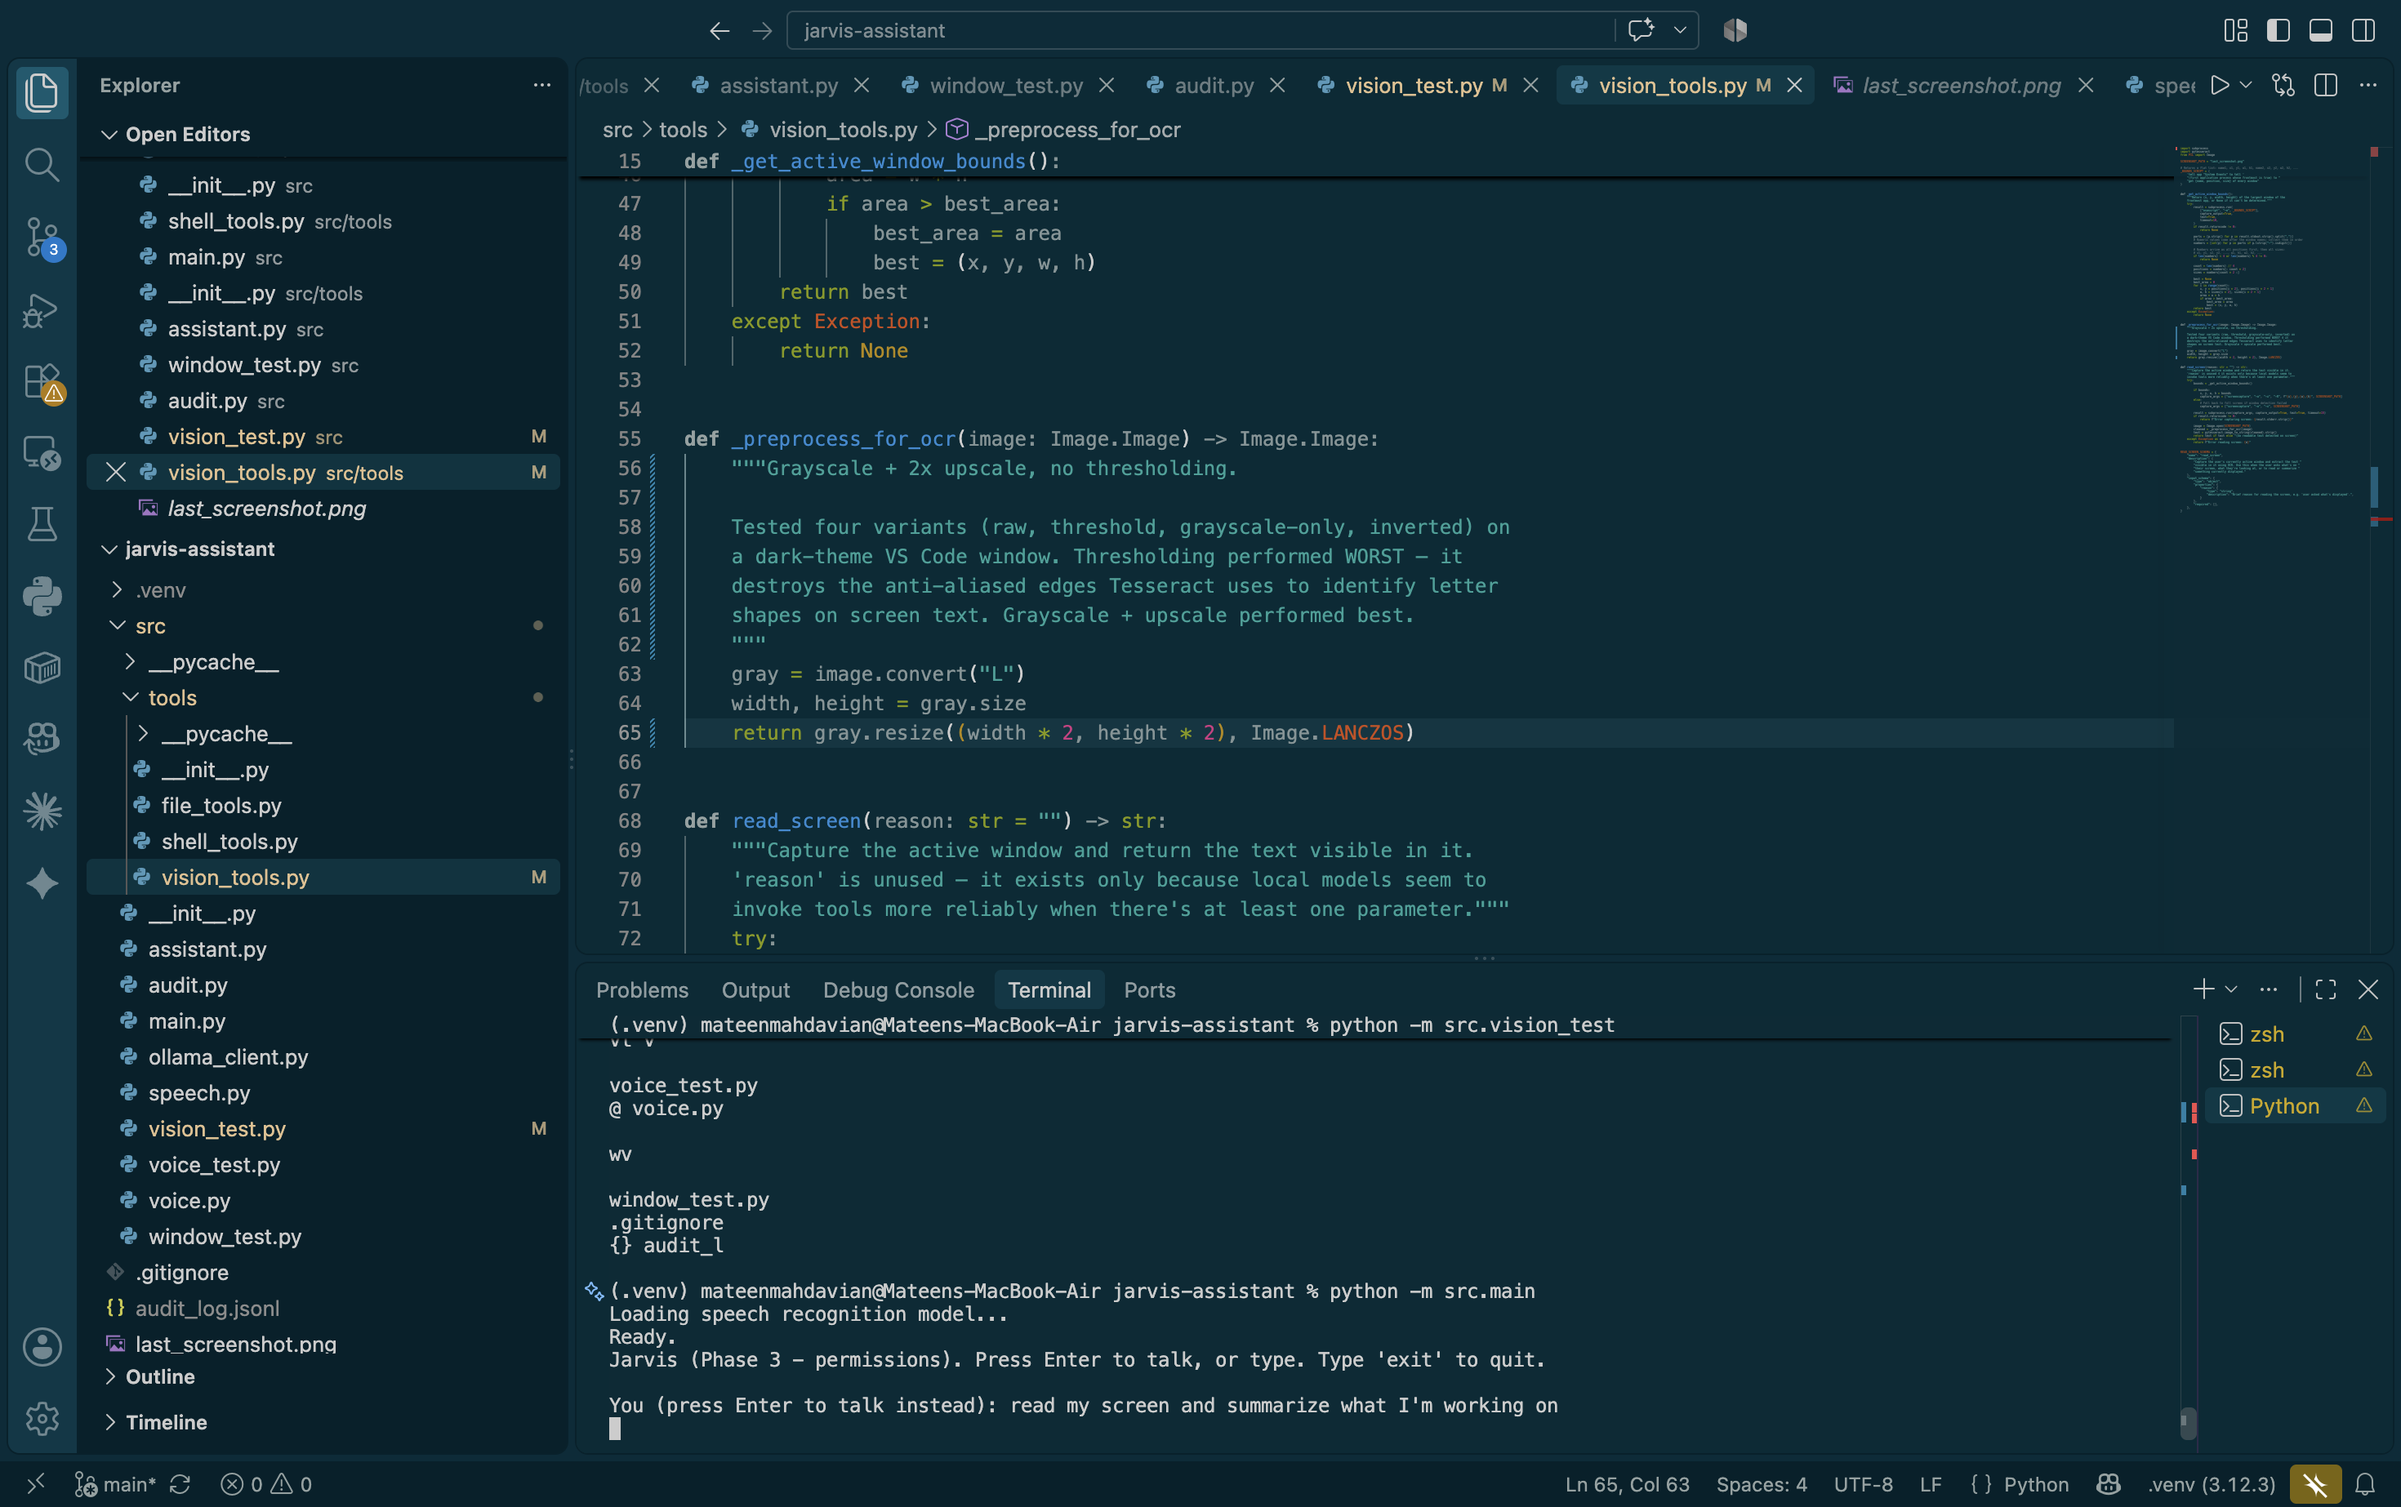
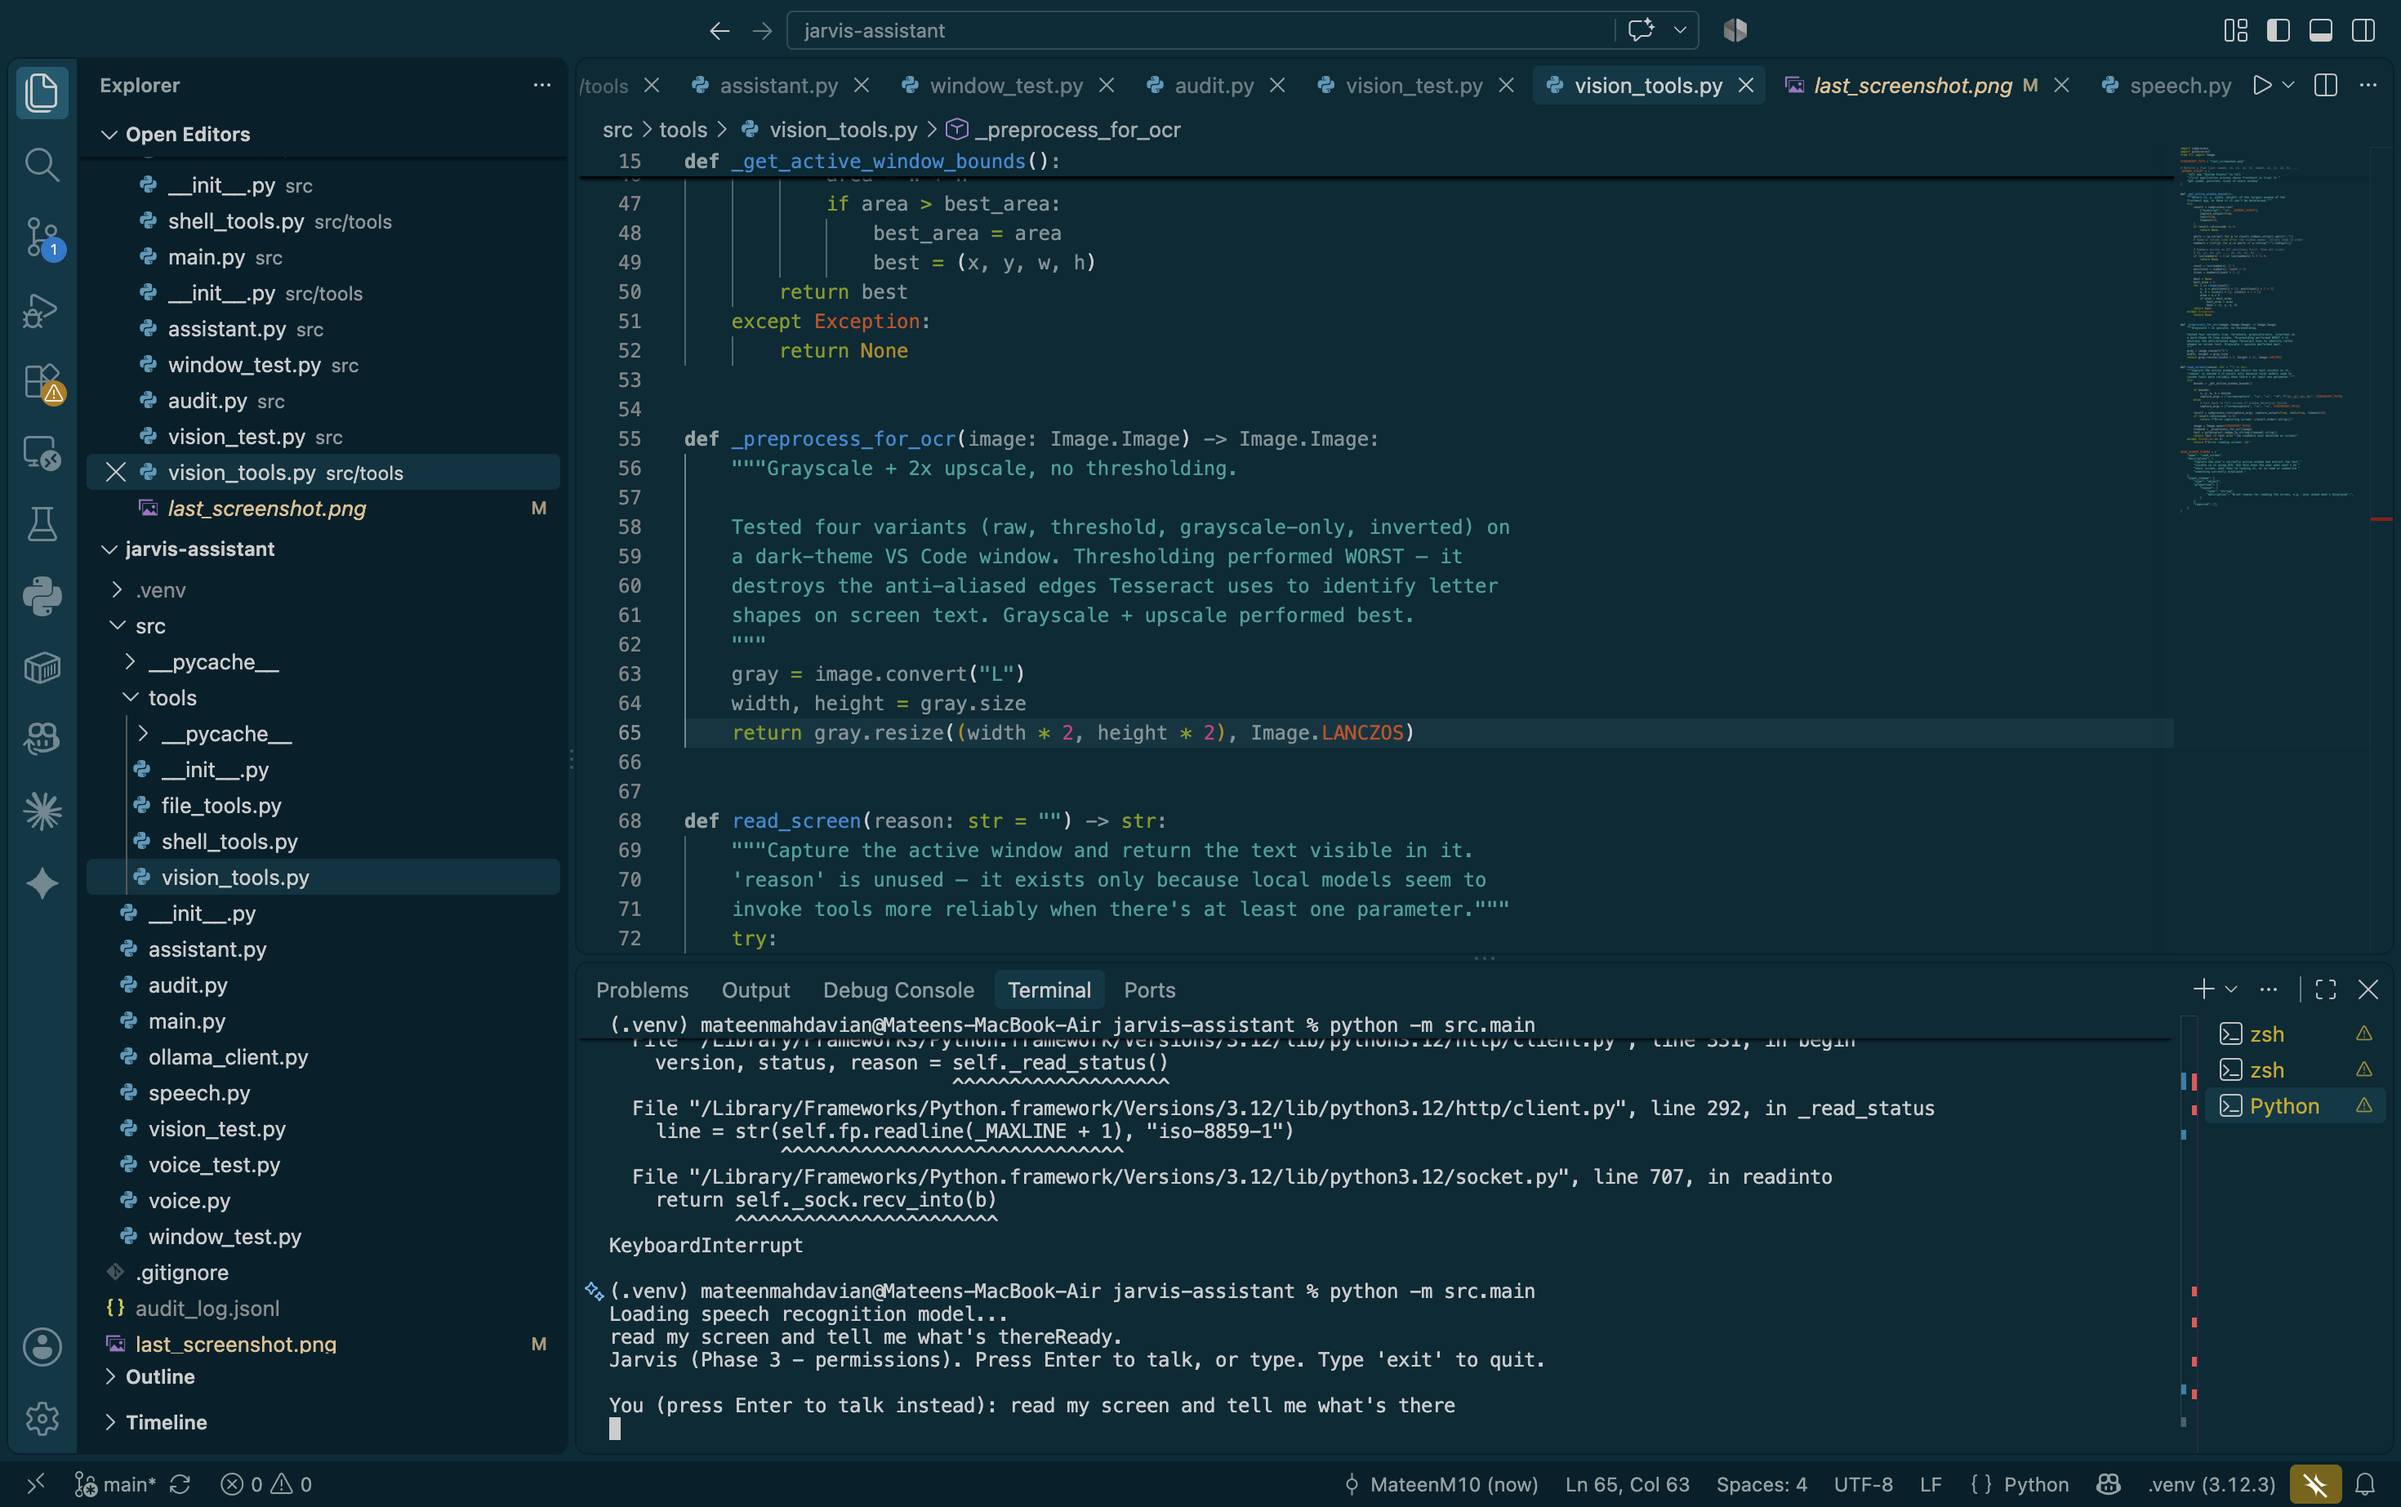
Created the hud main screen

diff --git a/hud/index.html b/hud/index.html
@@ -1,0 +1,134 @@
+<!DOCTYPE html>
+<html lang="en">
+<head>
+<meta charset="utf-8">
+<title>JARVIS</title>
+<style>
+  :root {
+    --glow: #35e0f0;
+    --glow-dim: #1a7f8a;
+    --bg: #0a1420;
+  }
+
+  * { margin: 0; padding: 0; box-sizing: border-box; }
+
+  body {
+    background: radial-gradient(circle at center, #12212f 0%, var(--bg) 70%);
+    height: 100vh;
+    display: flex;
+    flex-direction: column;
+    align-items: center;
+    justify-content: center;
+    font-family: "SF Mono", Menlo, monospace;
+    color: var(--glow);
+    overflow: hidden;
+  }
+
+  .reactor { position: relative; width: 420px; height: 420px; }
+
+  .reactor svg {
+    position: absolute;
+    inset: 0;
+    filter: drop-shadow(0 0 6px var(--glow-dim));
+  }
+
+  /* Each ring spins at its own speed/direction so the whole thing
+     never looks like one rigid object rotating. */
+  .spin-slow    { animation: spin 24s linear infinite; }
+  .spin-medium  { animation: spin 14s linear infinite reverse; }
+  .spin-fast    { animation: spin 8s  linear infinite; }
+  .spin-slowest { animation: spin 40s linear infinite reverse; }
+
+  @keyframes spin {
+    from { transform: rotate(0deg); }
+    to   { transform: rotate(360deg); }
+  }
+
+  .core {
+    position: absolute;
+    inset: 0;
+    display: flex;
+    align-items: center;
+    justify-content: center;
+    flex-direction: column;
+    gap: 10px;
+  }
+
+  .label {
+    font-size: 22px;
+    letter-spacing: 8px;
+    text-shadow: 0 0 12px var(--glow);
+  }
+
+  .status {
+    font-size: 11px;
+    letter-spacing: 3px;
+    color: var(--glow-dim);
+    text-transform: uppercase;
+  }
+
+  /* Gentle pulse on the innermost disc so it feels alive at rest */
+  .pulse { animation: pulse 3s ease-in-out infinite; transform-origin: center; }
+
+  @keyframes pulse {
+    0%, 100% { opacity: 0.45; }
+    50%      { opacity: 0.9; }
+  }
+</style>
+</head>
+<body>
+
+  <div class="reactor">
+
+    <!-- Outer dashed ring -->
+    <svg class="spin-slowest" viewBox="0 0 200 200">
+      <circle cx="100" cy="100" r="94" fill="none"
+              stroke="var(--glow-dim)" stroke-width="0.8"
+              stroke-dasharray="2 6"/>
+    </svg>
+
+    <!-- Segmented ring: long arcs with gaps -->
+    <svg class="spin-slow" viewBox="0 0 200 200">
+      <circle cx="100" cy="100" r="84" fill="none"
+              stroke="var(--glow)" stroke-width="1.5"
+              stroke-dasharray="60 30" opacity="0.7"/>
+    </svg>
+
+    <!-- Tick marks -->
+    <svg class="spin-medium" viewBox="0 0 200 200">
+      <circle cx="100" cy="100" r="72" fill="none"
+              stroke="var(--glow)" stroke-width="4"
+              stroke-dasharray="1 5" opacity="0.55"/>
+    </svg>
+
+    <!-- Thin bright ring -->
+    <svg class="spin-fast" viewBox="0 0 200 200">
+      <circle cx="100" cy="100" r="60" fill="none"
+              stroke="var(--glow)" stroke-width="1"
+              stroke-dasharray="120 40"/>
+    </svg>
+
+    <!-- Inner dotted ring -->
+    <svg class="spin-medium" viewBox="0 0 200 200">
+      <circle cx="100" cy="100" r="50" fill="none"
+              stroke="var(--glow-dim)" stroke-width="3"
+              stroke-dasharray="1 4"/>
+    </svg>
+
+    <!-- Static core ring + soft filled disc -->
+    <svg viewBox="0 0 200 200">
+      <circle cx="100" cy="100" r="40" fill="none"
+              stroke="var(--glow)" stroke-width="1.5" opacity="0.9"/>
+      <circle class="pulse" cx="100" cy="100" r="38"
+              fill="var(--glow)" opacity="0.12"/>
+    </svg>
+
+    <div class="core">
+      <div class="label">JARVIS</div>
+      <div class="status" id="status">standby</div>
+    </div>
+
+  </div>
+
+</body>
+</html>
